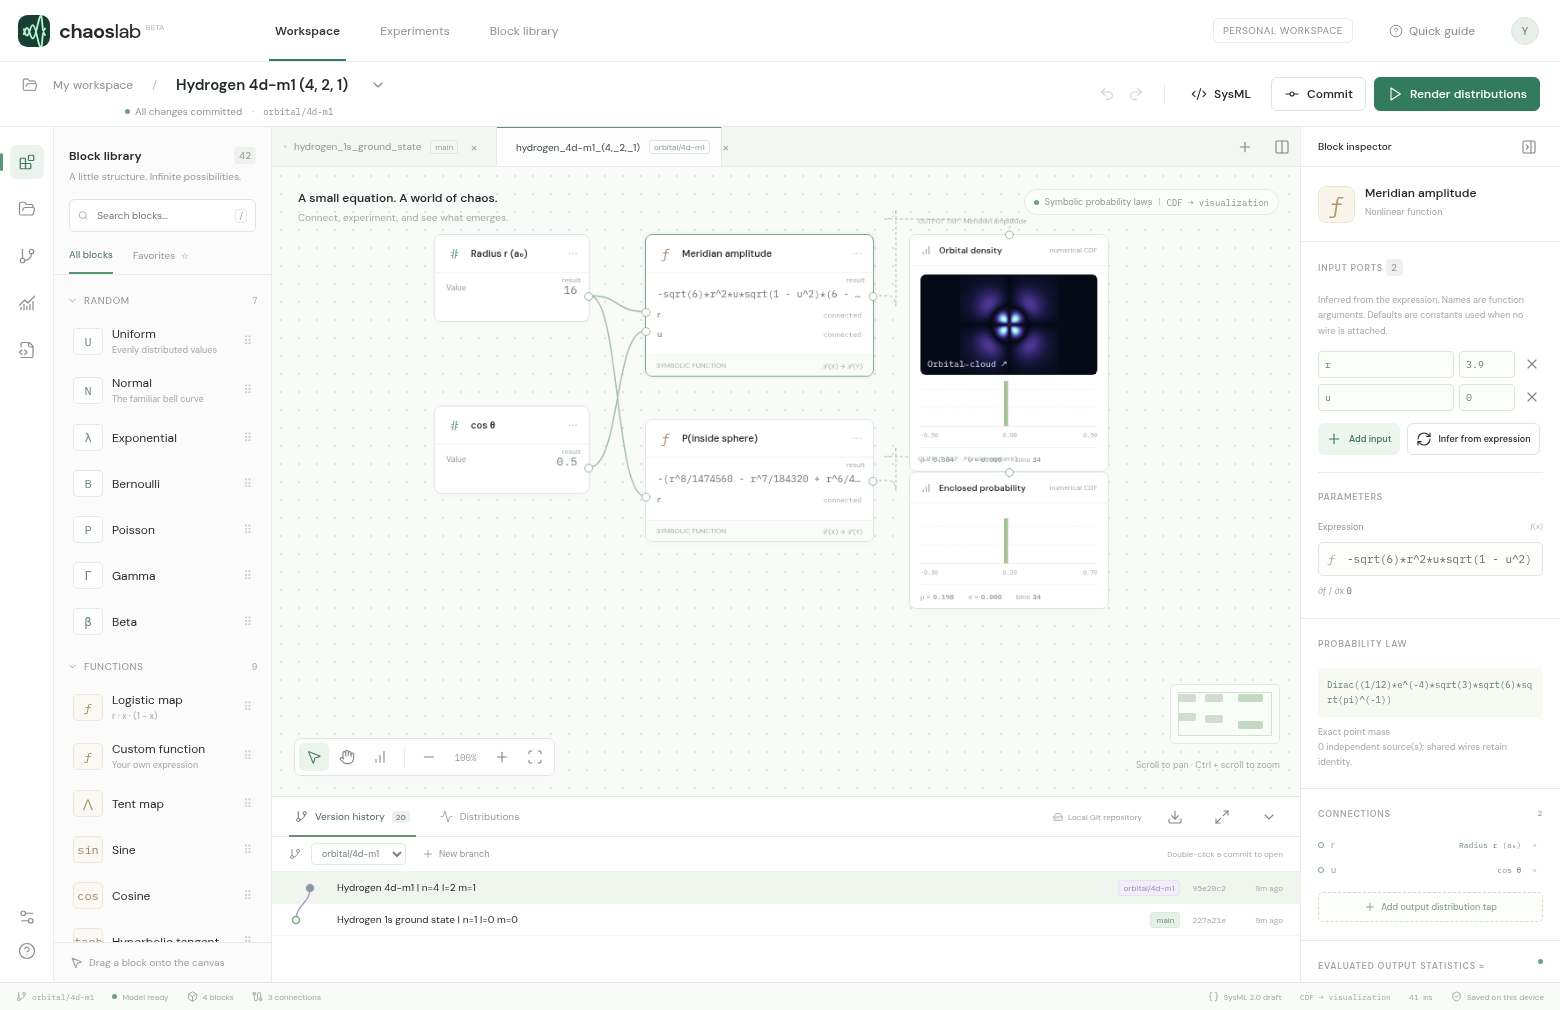
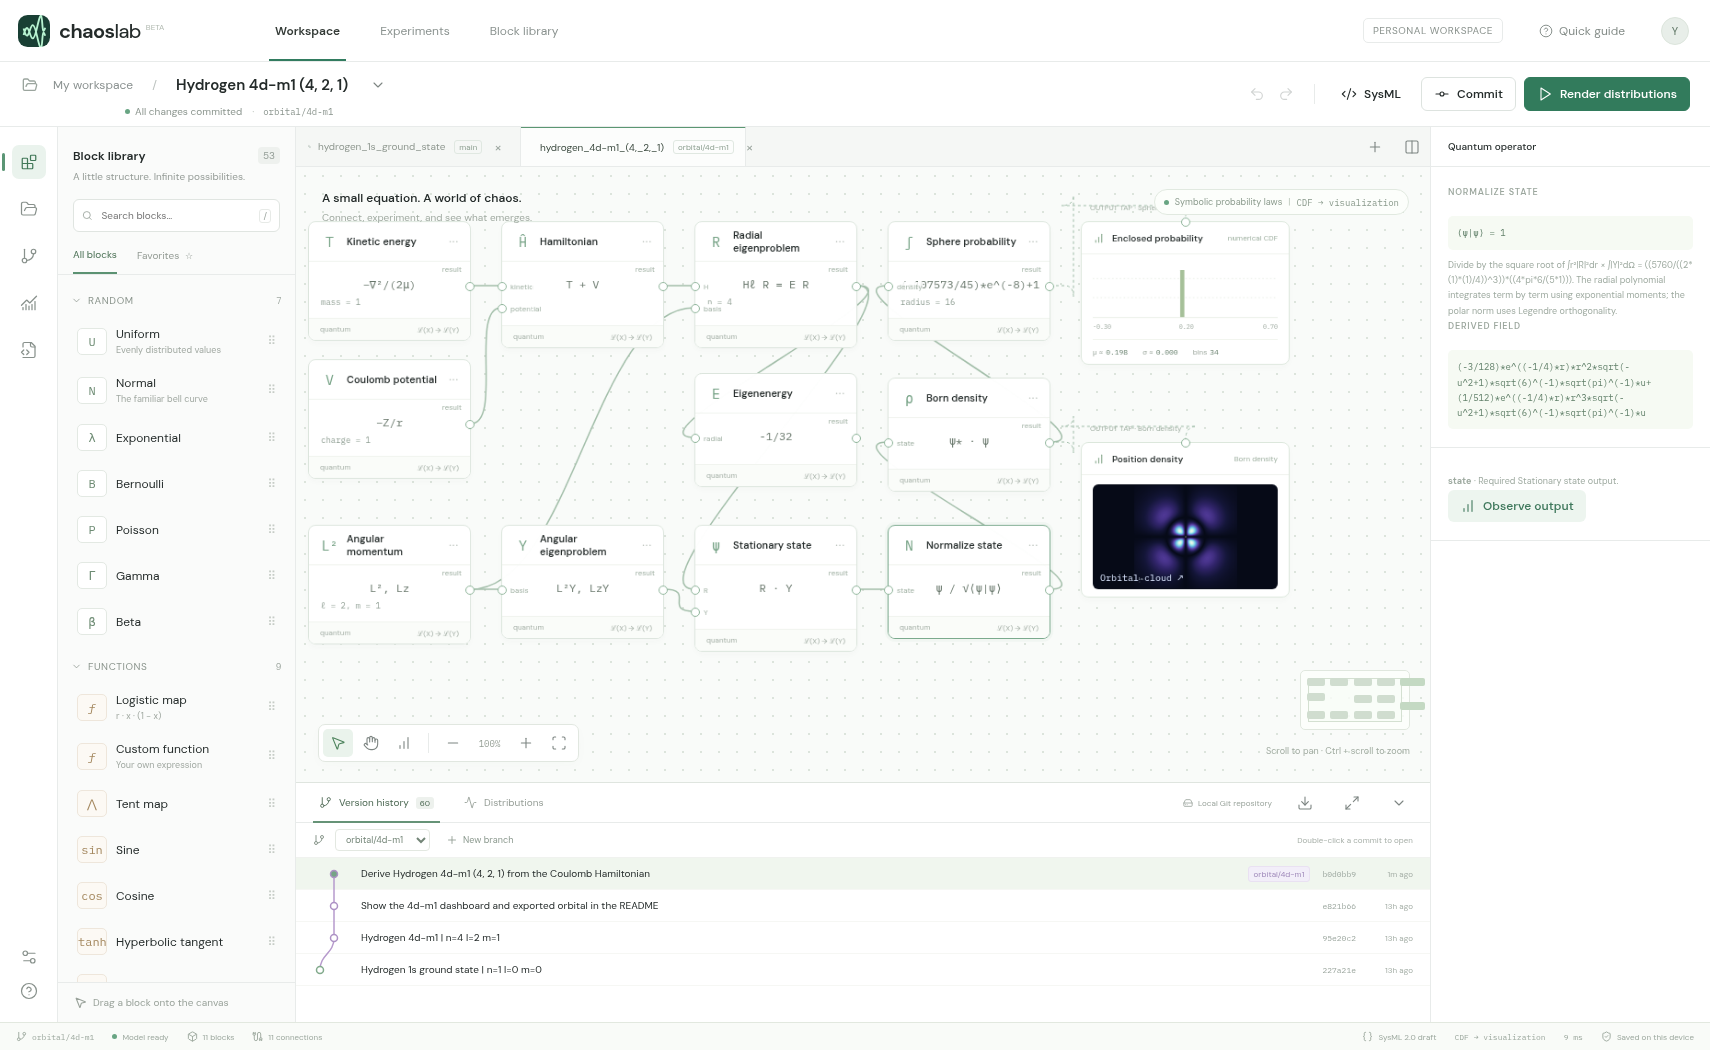
Show the derived state and operator graph for orbital/4d-m1

diff --git a/README.md b/README.md
@@ -4,6 +4,8 @@ Open **Version history** in Chaos Lab to explore the 20 hydrogen designs in this
 
 ## Hydrogen 4d (n = 4, ℓ = 2, m = 1)
 
+The connected Hamiltonian and eigenstate solvers give $E=-1/32$ Hartree for this state.
+
 ![Chaos Lab dashboard with the 4d model, m = 1, open in version history](dashboard.png)
 
 Radial nodes: 1. Polar nodes: 1. Plot half-width: 32 Bohr radii.
@@ -22,7 +24,7 @@ cd hydrogen_wavefunction
 python studio.py
 ```
 
-On Windows you can use `py studio.py`. On Linux you can use `python3 studio.py`. The first launch downloads the pinned Chaos Lab browser build. Double-click a commit to open it in a tab. Open another and use **Split view** to compare them. **Orbital cloud ↗** opens the spatial plots. The launcher reads the Git objects from your clone, including origin branches. Run `git fetch origin` and restart the launcher to load new remote branches.
+On Windows you can use `py studio.py`. On Linux you can use `python3 studio.py`. The first launch downloads the pinned Chaos Lab browser build. Double-click a commit to open it in a tab. Open another and use **Split view** to compare them. **Orbital cloud ↗** opens the spatial plots. The launcher reads the Git objects from your clone, including origin branches. For an existing clone, update the checked-out branch with `git pull --ff-only`, fetch the other branches with `git fetch origin`, and restart the launcher. Double-click the latest commit for the design you want to explore.
 
 To compare states with the same radial law, open `orbital/2p-m0` and `orbital/2p-m1`. At the same radius their enclosed-probability probes agree. The first slice is dark on the equatorial plane, while the second is dark along the polar axis.
 
@@ -32,7 +34,17 @@ To compare states with the same radial law, open `orbital/2p-m0` and `orbital/2p
 
 Branch names encode `(n, ℓ, m)`. For example, `orbital/3d-m1` is `(3,2,1)`. Each snapshot includes the editable graph, its compiled symbolic representation, and its SysML text. Each excited-state branch also contains a reference cross-section.
 
-Coordinates are in Bohr radii. These are normalized fixed-proton, nonrelativistic spatial eigenstates in the complex spherical-harmonic basis. For a fixed m the azimuthal phase is exp(i m φ), so probability density is axially symmetric. The graph evaluates the real meridian amplitude at φ = 0 using radius r and u = cos θ. Its square is probability per unit volume. The sphere probe integrates the radial Born law. The field tap sweeps the same amplitude expression for the x–z slice and its projected detections. Detections are drawn for display from a numerical grid of the final density including the r² volume factor. Brightness and plotting windows are scaled per orbital.
+## How the graph derives this orbital
+
+1. **Kinetic energy** and **Coulomb potential** supply the relative-coordinate operators in atomic units. Their wires feed **Hamiltonian**, which constructs $H=-\nabla^2/(2\mu)-Z/r$. The default is a fixed proton, $Z=\mu=1$.
+2. **Angular momentum** selects the joint eigenvalues of $L^2$ and $L_z$. **Radial eigenproblem** uses that angular eigenvalue in the centrifugal term. Regularity at the origin, decay at infinity, and radial-series termination give the polynomial and energy. **Angular eigenproblem** constructs the polar polynomial by Rodrigues differentiation and includes the phase $e^{im\phi}$.
+3. **Stationary state** multiplies the separated basis functions. **Normalize state** computes their norm with the spherical volume measure. **Born density** takes the squared modulus of the normalized state. **Sphere probability** integrates that density to the probe radius.
+4. Select a block to inspect its equation and derivation. Change **Nuclear charge** from 1 to 2. The energy becomes four times more negative and the orbital contracts by a factor of two. The plot rescales with the orbital, so use its Bohr-radius scale bar to see the change.
+
+The central slice evaluates the final density in the x–z plane. Projected detections sample the final density on a finite radial and angular grid with the spherical volume factor. Coordinates use Bohr radii and energy uses Hartree.
+
+The branch stores the operator graph in `model.json`, its derived fields and scalar laws in `model.symbolic.json`, and the block connections in `model.sysml`. With SymPy installed, run `python tools/verify_state.py` in a checkout of this branch to check the eigenvalue equations, normalization, radial reference solution and sphere integral.
+
 
 | n | ℓ | m | Design branch |
 |---|---|---|---|
